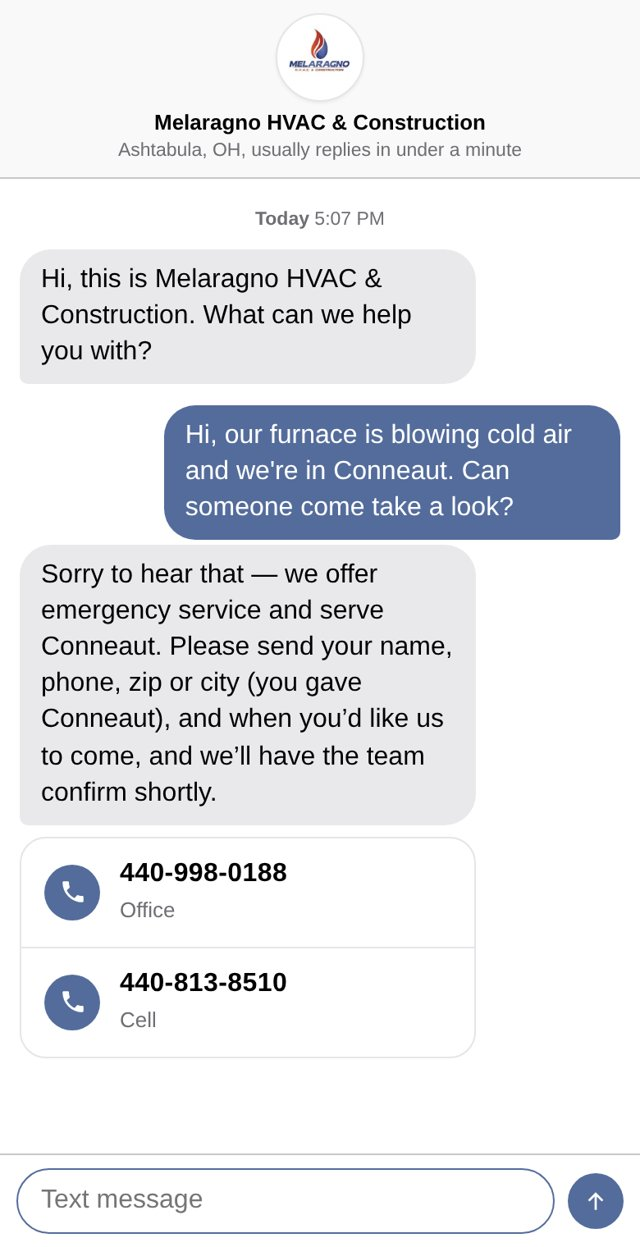
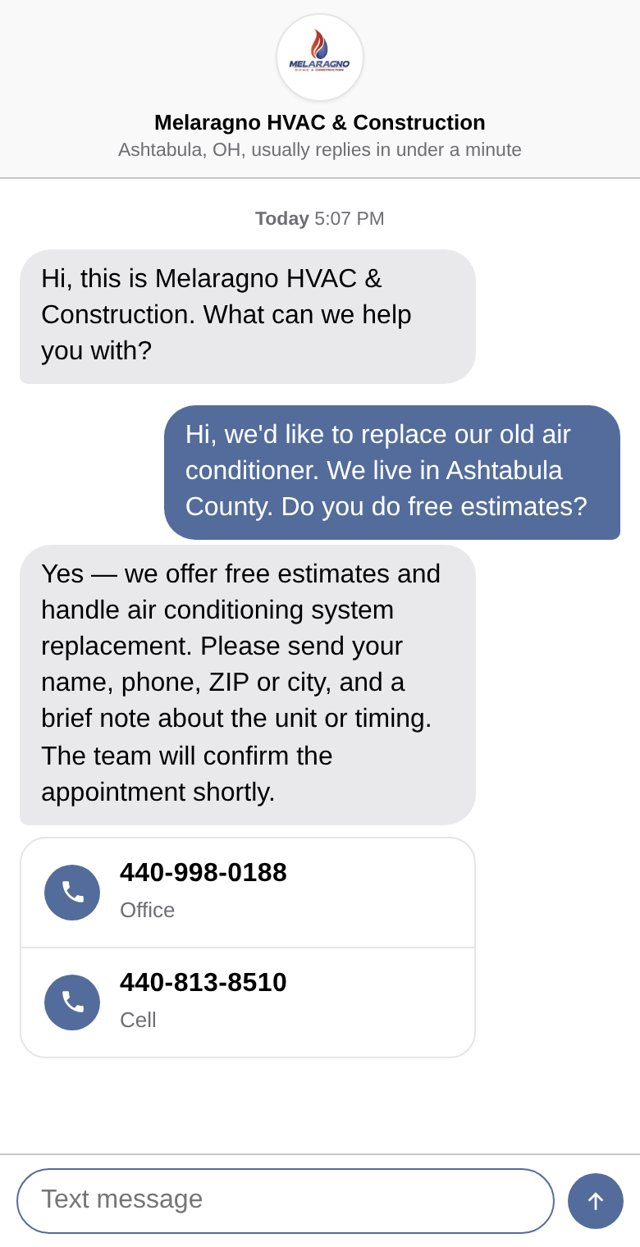
melaragno-hvac chat

Changed region(s): [[0.0625, 0.3352, 0.9062, 0.6399]]

diff --git a/melaragno-hvac/index.html b/melaragno-hvac/index.html
@@ -7,7 +7,7 @@ img.shot{max-width:360px;margin:0 auto 22px}figcaption{text-align:center;font-we
 a.btn{display:block;max-width:420px;margin:0 auto;text-align:center;background:#1f66e0;color:#fff;text-decoration:none;font-weight:700;padding:15px;border-radius:14px;font-size:16px}
 small{display:block;text-align:center;color:#7a8596;margin-top:16px;font-size:12.5px}</style></head><body><main>
 <h1>A website assistant for Melaragno HVAC &amp; Construction</h1><p>It answers your website visitors instantly, day or night, using only what's on your website, and sends you their name, number and what they need.</p><img class="shot" src="screenshot.jpg" alt="Preview of the assistant on your website">
-<a class="btn" href="https://wpsani.store/demo/d/cffb0fef">Try it live</a>
+<a class="btn" href="https://wpsani.store/demo/d/6113d729">Try it live</a>
 <small>Private demo built by Federico Sanua, independent web developer, sanuafederico@gmail.com</small>
-<img src="https://wpsani.store/demo/p/cffb0fef.gif" width="1" height="1" alt="" style="position:absolute;left:-9999px">
+<img src="https://wpsani.store/demo/p/6113d729.gif" width="1" height="1" alt="" style="position:absolute;left:-9999px">
 </main></body></html>
